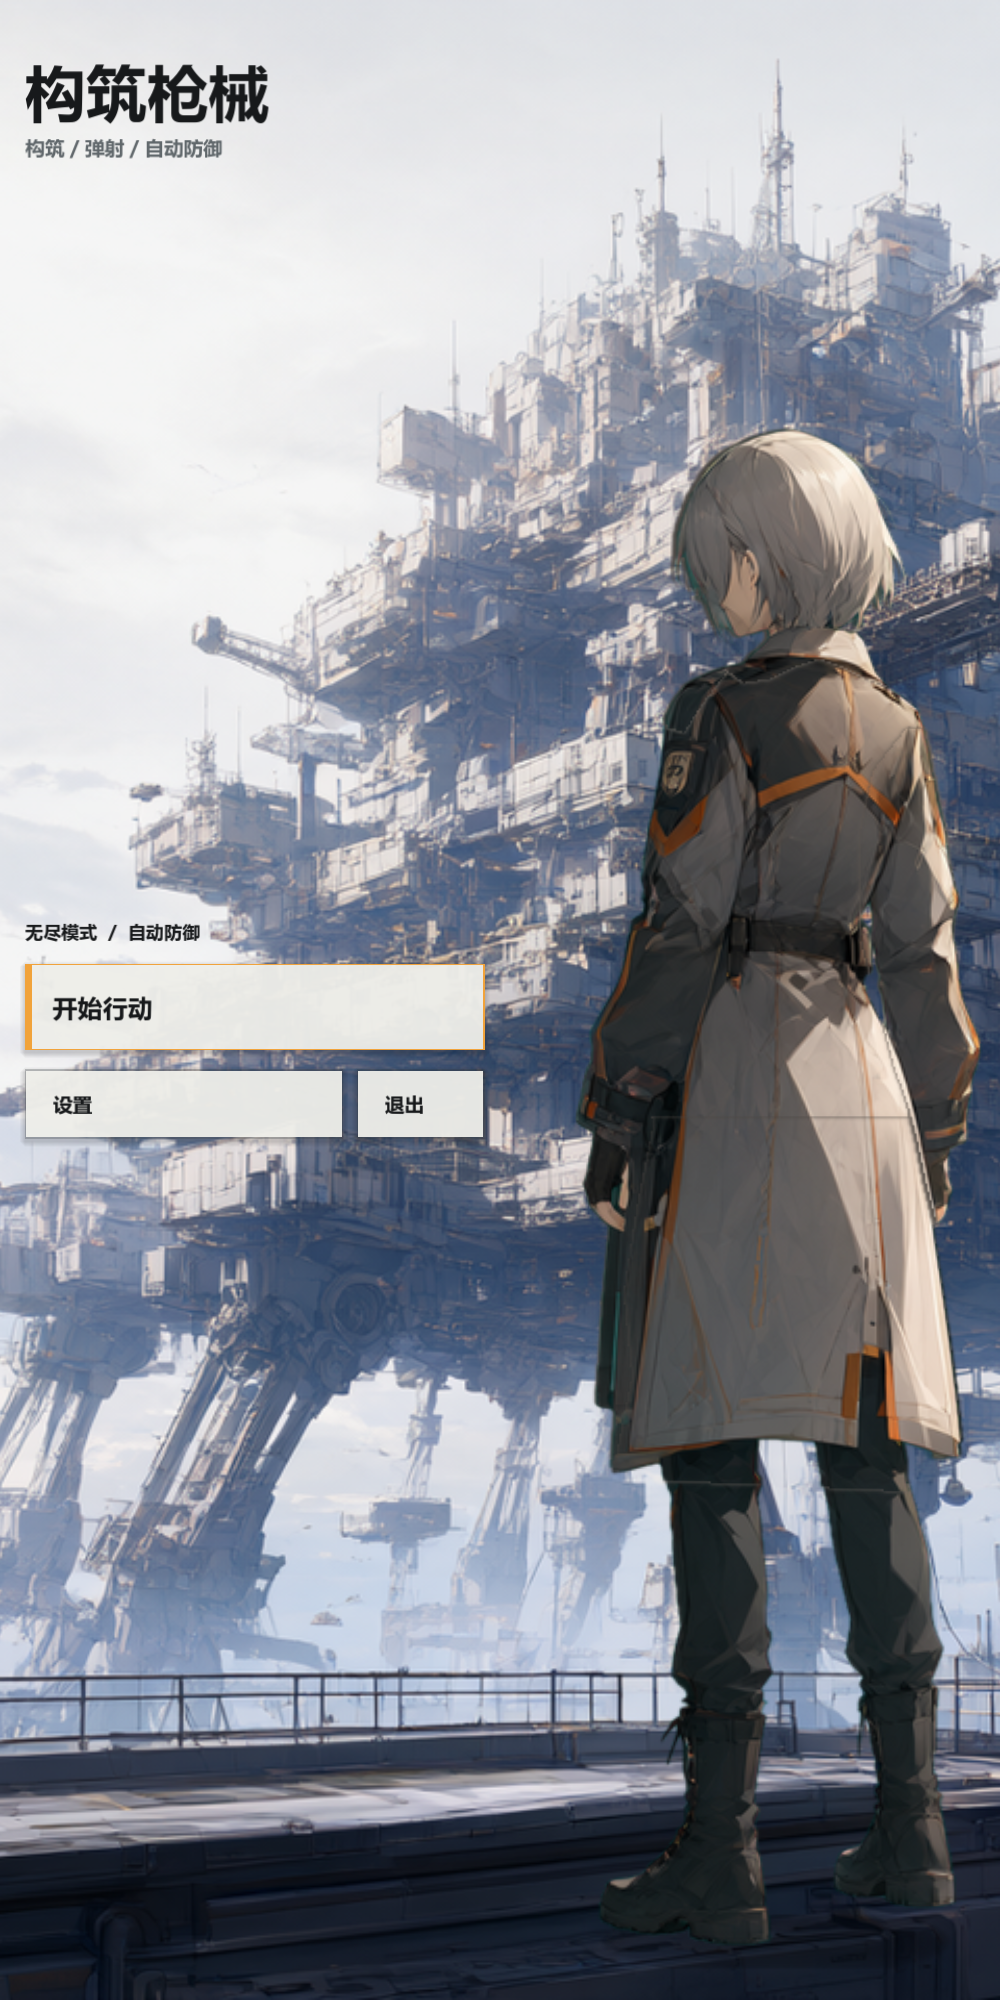
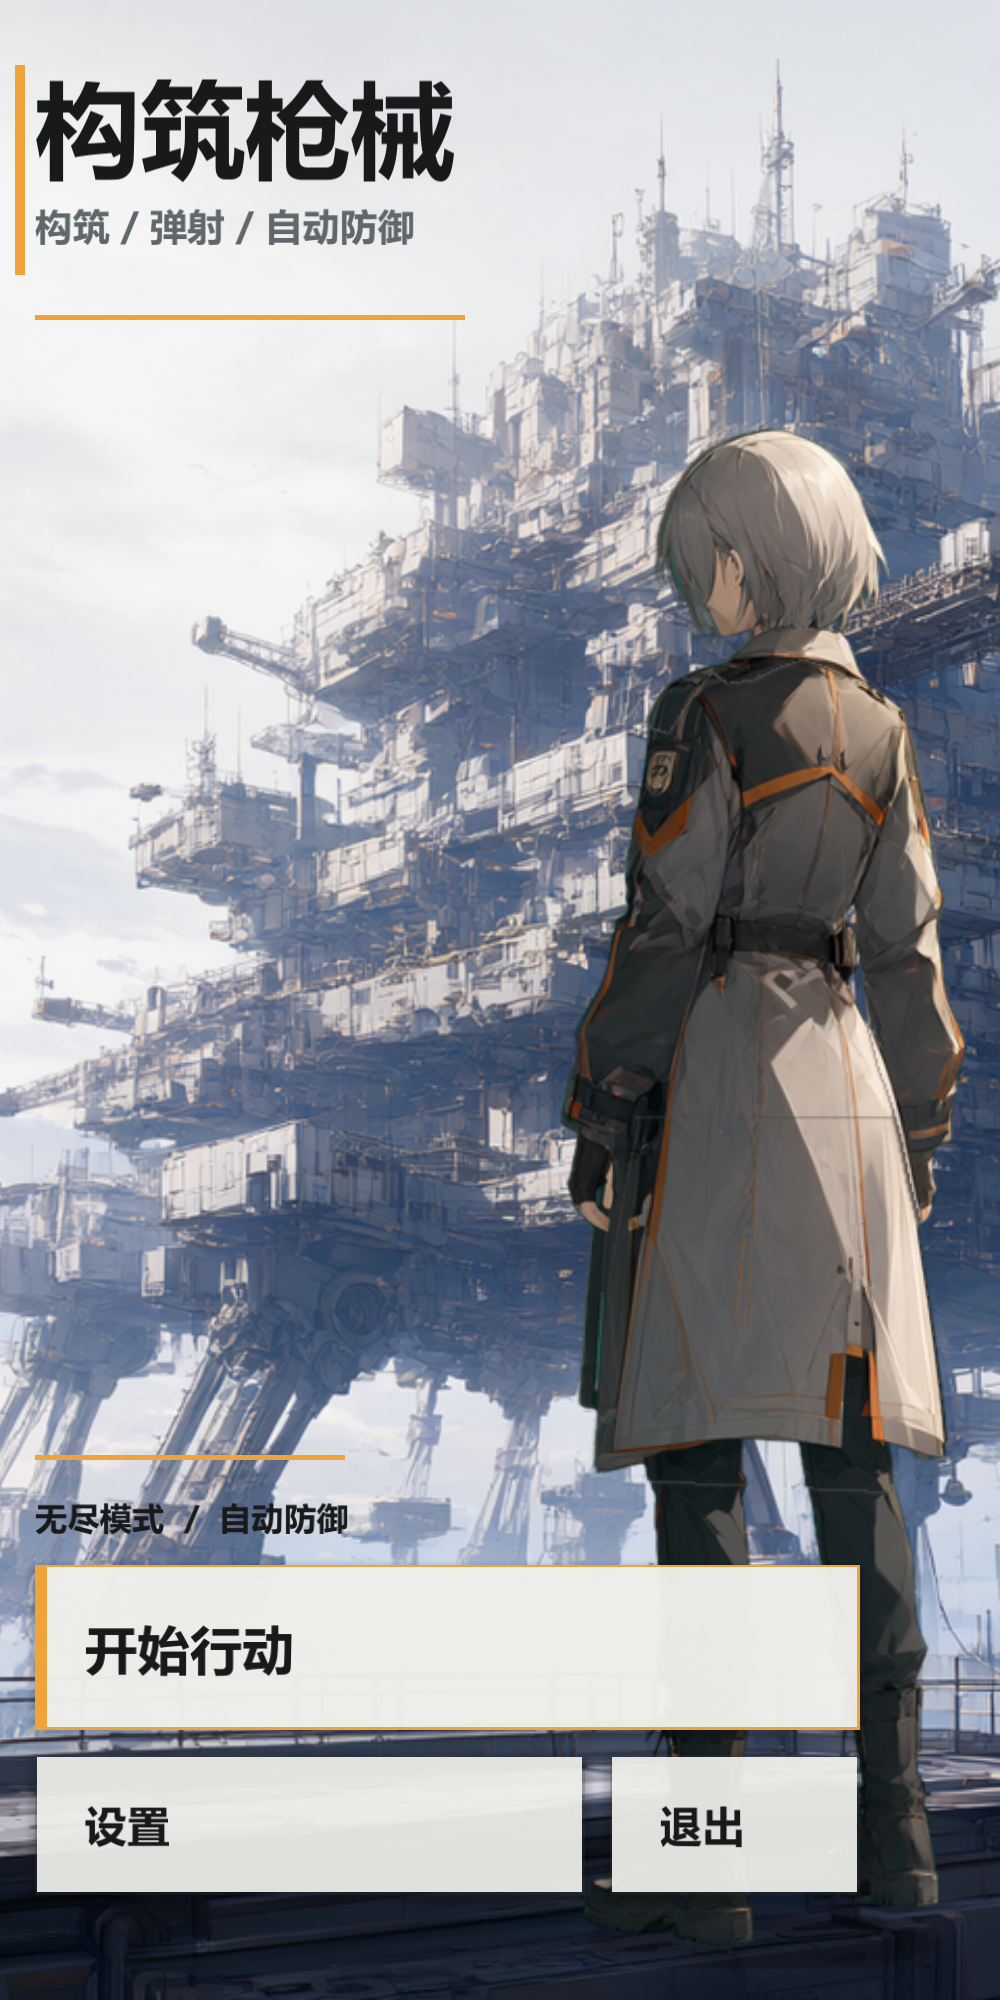
docs: 更新移动端布局说明与预览截图

diff --git a/README.md b/README.md
@@ -28,7 +28,7 @@
 - 普通怪基础血量从 3 开始，每波增加 1；血条只在受击后显示 3 秒，重复受击刷新倒计时，死亡或超时后隐藏
 - 方块被击中/击碎时会溅出对应颜色的火花和闪光，击碎时额外爆出金币碎屑
 - 击碎方块按方块最大血量获得金币，顶部 HUD 显示金币数；金币用于在底部道具栏购买炮塔
-- 点击已放置的炮塔会弹出聚焦面板，显示伤害/攻击间隔/射程/穿透/弹跳/发射数，可拆除并返还 50% 金币
+- 点击已放置的炮塔会在屏幕底部弹出聚焦面板，显示伤害/攻击间隔/射程/穿透/弹跳/发射数，可拆除并返还 50% 金币
 - 击碎方块只产出金币，不再有经验/等级/三选一卡牌
 - 点击已放置的炮塔打开聚焦面板，可以用金币升级攻击力；每次 +1 伤害，费用随强化等级提高
 - 暂无失败条件（无尽模式），重开按 R
@@ -86,22 +86,31 @@
 
 ## 运行
 
-- Godot 4.7，移动渲染器，设计分辨率 720×960（竖屏）
+- Godot 4.7，移动渲染器，设计视口 400×800（竖屏，1 逻辑像素约等于手机上的 1dp）
+- 桌面窗口默认按 480×960 打开，内容按设计视口等比放大；真机全屏时宽度固定 400，长屏向上扩展
 - 编辑器打开项目后 F5，或命令行：
 
 ```bash
 Godot_v4.7.2-stable_win64.exe --path .
 ```
 
+## 移动端界面尺寸
+
+- 设计视口从 720×960 改为 400×800。之前 13px 的正文在 1080×2400 手机上只有约 5dp，按钮只有约 17dp，按不到也看不清；现在同样的数值直接对应手机上的 dp。
+- 可点击控件短边不小于 48（HUD 设置键 52、道具卡 92、聚焦面板按钮 50～58、设置项 56、主菜单 66）；正文 15～17，标题 21～42。
+- 底部道具栏整条可拖拽；聚焦面板改为贴底宽面板，升级/拆除按钮落在拇指区；主界面「开始行动」移到底部。
+- 炮塔点击判定半径从 34 世界单位放宽到 46，并改为选取最近的一座。
+- 尺寸基线集中在 `scripts/ui_metrics.gd`，各界面统一引用；回归测试会检查控件短边和正文字号。
+
 ## 多分辨率与自适应布局
 
-- 游戏锁定纯竖屏；设计视口为 720×960，使用 `canvas_items` 与 `expand`。
+- 游戏锁定纯竖屏；设计视口为 400×800，使用 `canvas_items` 与 `expand`。
 - HUD、主界面和设置使用 Anchors、MarginContainer、HBoxContainer、VBoxContainer 与内容驱动尺寸。
-- 商店位于底部横排；主界面功能菜单固定在左侧中部。移动设备读取安全区域，避开刘海和系统手势区。
+- 商店位于底部横排；主界面功能菜单位于底部拇指区。移动设备读取安全区域，避开刘海和系统手势区。
 - 战场 Camera 只按屏幕宽度缩放，左右各保留 8 逻辑像素，不根据高度反向压缩；地图向上下延伸。
 - 屏幕／触摸坐标经过 Camera 变换后再用于点击和拖拽部署；主界面背景等比覆盖，不拉伸人物。
 
-响应式回归测试覆盖 720×960、1000×2000、1080×1920、1080×2400，并动态检查战场实际边界宽度、面板边界、菜单位置、设置面板和触摸拖拽部署：
+响应式回归测试覆盖 720×960、1000×2000、1080×1920、1080×2400，并动态检查战场实际边界宽度、面板边界、菜单位置、设置面板、触摸拖拽部署，以及按钮短边和正文字号：
 
 ```bash
 Godot_v4.7.2-stable_win64.exe --headless --fixed-fps 60 --path . res://tools/responsive_test.tscn
@@ -121,7 +130,9 @@ Godot_v4.7.2-stable_win64.exe --headless --fixed-fps 60 --path . res://tools/smo
 Godot_v4.7.2-stable_win64.exe --path . res://tools/screenshot.tscn
 ```
 
-脚本会先快进让方块流铺满场地，再布置示例炮塔并开火，最后把当前画面保存为 `image.png`。可用 `-- --size=1000x2000` 或 `-- --size=1080x2400` 生成指定竖屏尺寸的预览；主界面截图工具支持相同参数。
+脚本会先快进让方块流铺满场地，再布置示例炮塔并开火，最后把当前画面保存为 `image.png`（默认 1080×2400）。可用 `-- --size=1000x2000` 或 `-- --size=1080x2400` 生成指定竖屏尺寸的预览；附加 `-- --settings` 保存 `game_settings_preview.png`，附加 `-- --focus` 保存聚焦面板 `focus_preview.png`；`-- --locale=en` 可检查英文排版。主界面截图工具支持相同参数。
+
+![聚焦面板：贴底的炮塔属性与升级按钮](focus_preview.png)
 
 ## 美术素材
 
@@ -141,7 +152,7 @@ Godot_v4.7.2-stable_win64.exe --path . res://tools/menu_screenshot.tscn
 Godot_v4.7.2-stable_win64.exe --path . res://tools/menu_screenshot.tscn -- --settings
 ```
 
-分别保存 `menu_preview.png` 和 `menu_settings_preview.png`。游戏截图工具附加 `-- --settings` 可保存 `game_settings_preview.png`。
+分别保存 `menu_preview.png` 和 `menu_settings_preview.png`（默认 1080×2400）。游戏截图工具附加 `-- --settings` 可保存 `game_settings_preview.png`。
 
 ## 文件结构
 
@@ -154,6 +165,7 @@ scripts/main_menu.gd        主界面布局与场景入口
 scripts/settings_panel.gd   主界面／游戏内共用设置面板
 scripts/game_settings.gd    设置存储、全屏与显示选项
 scripts/responsive_layout.gd 竖屏逻辑视口与安全区域计算
+scripts/ui_metrics.gd       UI 尺寸基线：边距、字号、点击区域
 scripts/main.gd             游戏状态、Camera、触摸换算、暂停菜单与炮塔强化
 scripts/i18n.gd             i18n 单例：读取 JSON、切换语言、t(key)
 scripts/ball.gd             弹球：分步移动、圆-矩形碰撞、弹跳次数
@@ -173,8 +185,8 @@ i18n/zh_CN.json             中文翻译表（默认）
 i18n/en.json                英文翻译表
 theme/game_theme.tres       全局 UI 字体（含 CJK 回退）
 tools/smoke_test.tscn/gd    无头冒烟测试
-tools/responsive_test.tscn/gd 多尺寸竖屏、宽度适配与触摸部署回归测试
-tools/screenshot.tscn/gd    游戏与游戏内设置截图工具
+tools/responsive_test.tscn/gd 多尺寸竖屏、宽度适配、触摸部署与控件尺寸回归测试
+tools/screenshot.tscn/gd    游戏、设置面板与聚焦面板截图工具
 tools/menu_screenshot.tscn/gd 主界面与主界面设置截图工具
 tools/generate_ui_assets.py 调用 ComfyUI qwen_workflow 生成 UI 素材
 tools/process_ui_assets.py  裁切、压暗和透明底后处理
